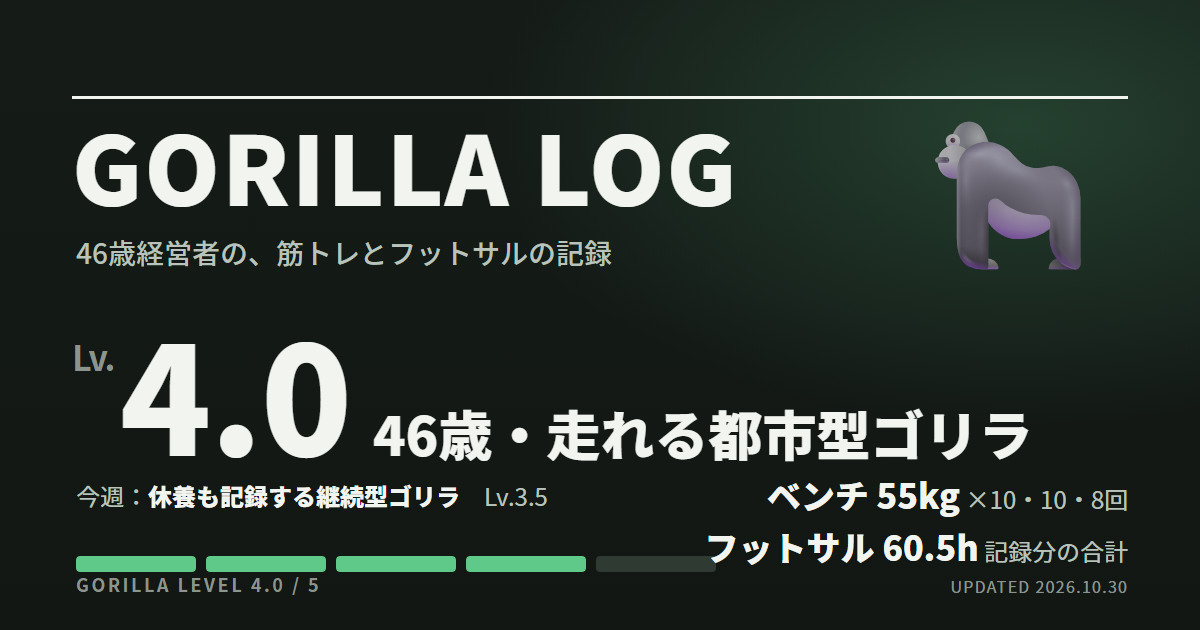
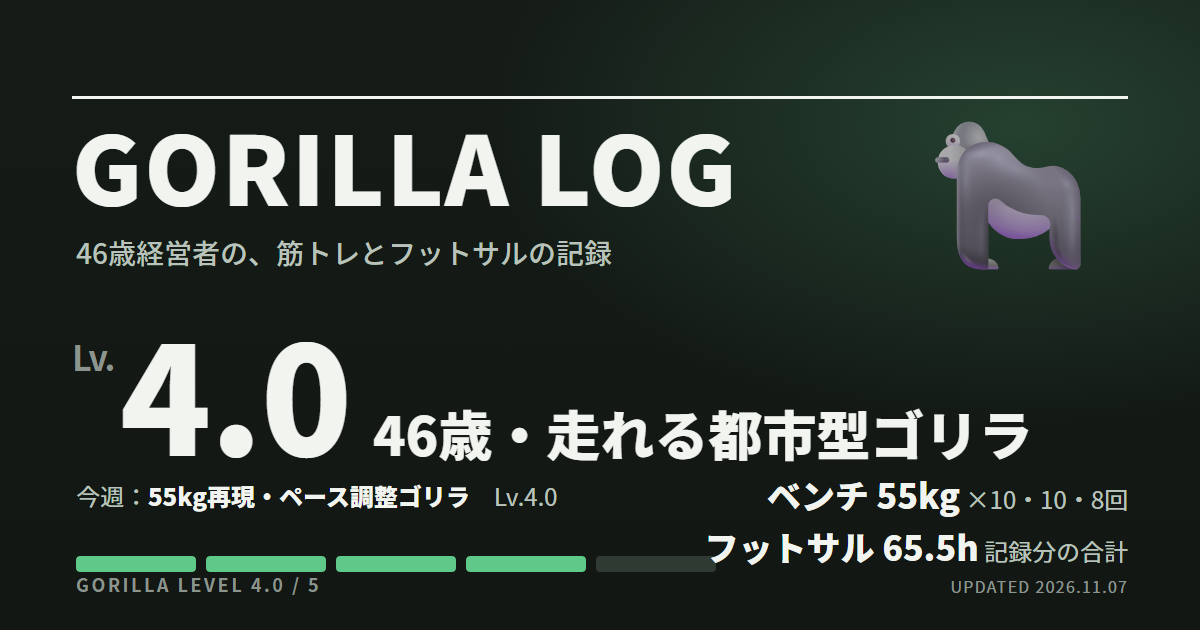
week of 2026-11-07: R66〜R69 を追加
- 11/2 ジム復帰（ベンチ55kg 10・10・8を再現、スクワット60kgで様子見）、11/3 フットサル2h、11/5 自宅16セット、11/7 フットサル3h
- 週判定「55kg再現・ペース調整ゴリラ Lv.4.0」と今週のひと言

Changed region(s): [[0.1233, 0.754, 0.4625, 0.8143], [0.8942, 0.9048, 0.9558, 0.9349], [0.74, 0.8444, 0.7708, 0.9048]]

diff --git a/data/records.js b/data/records.js
@@ -34,7 +34,7 @@ window.GORILLA_DATA = {
   meta: {
     siteName: "GORILLA LOG",
     tagline: "46歳経営者の、筋トレとフットサルの記録",
-    updated: "2026-10-30",
+    updated: "2026-11-07",
     since: "2025-09",
     overallLevel: 4.0,
     overallTitle: "46歳・走れる都市型ゴリラ",
@@ -566,6 +566,38 @@ window.GORILLA_DATA = {
       exercises: ["ダンベルプレス 10kg×15・15・20", "ワンハンドローイング 10kg×30×3", "ブルガリアンスクワット 自重×20×3", "ダンベルフライ 10kg×12・12・20", "フロントレイズ 10kg×10×2", "フレンチプレス 10kg×20×2"],
       source: "画像で確認",
     },
+    {
+      id: "R66", date: "2026-11-02", type: "gym",
+      title: "ベンチ55kg 10・10・8 を再現／スクワット60kg×10×3（様子見）", level: 4.0,
+      nickname: "55kgを再現する復帰ゴリラ",
+      note: "ジムを1回休んだ後の再開。「少し様子見でしたが、あんまりいつもと変わりませんでした」。ベンチは10月22日と同じ55kgで10・10・8回を再現し、反復数の後退は見えない。スクワットは70kgではなく60kgを選択。60kgを選んだことと70kgが挙がらなくなったことは別で、筋力低下とは判断しない。",
+      bench: { w: 55, reps: [10, 10, 8], full: false, verified: true },
+      squat: { w: 60, reps: [10, 10, 10], verified: true },
+      exercises: ["上体起こし 自重×10×3", "ベンチプレス 20×10, 30×5, 55×10・10・8, 37.5×10", "インクラインベンチプレス 30×10, 32.5×10×2", "バーベルスクワット 20×10, 40×5, 60×10×3", "フロントレイズ 8kg×12×3"],
+      source: "画像で確認",
+    },
+    {
+      id: "R67", date: "2026-11-03", type: "futsal",
+      title: "フットサル2時間（ほどほどで、やるところはしっかり）", hours: 2, level: 3.0, provisional: true,
+      nickname: "ほどほどに蹴る2時間ゴリラ",
+      note: "前日のジムに続く球技参加。強度は「ほどほどでやるとこはしっかりくらい」と本人説明。常時全力ではなく、ペースを意識している点を評価。心拍数などの数値には変換しない。",
+      source: "11月7日の本人報告",
+    },
+    {
+      id: "R68", date: "2026-11-05", type: "home",
+      title: "自宅トレ 6種目・16セット（プレス計50回）", level: 3.5, sets: 16,
+      nickname: "定番16セットの自宅ゴリラ",
+      note: "10月29・30日と全6種目の重量・回数・セット数が一致。今回報告の自宅トレは1回で、前週のような連日の同一メニューではない。少なめの実施回数を取り戻すための追加は必要と評価しない。",
+      exercises: ["ダンベルプレス 10kg×15・15・20", "ワンハンドローイング 10kg×30×3", "ブルガリアンスクワット 自重×20×3", "ダンベルフライ 10kg×12・12・20", "フロントレイズ 10kg×10×2", "フレンチプレス 10kg×20×2"],
+      source: "画像で確認",
+    },
+    {
+      id: "R69", date: "2026-11-07", type: "futsal",
+      title: "フットサル3時間", hours: 3, level: 3.5, provisional: true,
+      nickname: "要所はしっかりコートゴリラ",
+      note: "今回報告分で2回目の球技参加。ほどほどの強度を基本に要所はしっかり、という本人説明。以前の「プレー少なめ」はこの日へ流用しない。3時間の連続走行とは読み替えない。",
+      source: "11月7日の本人報告",
+    },
   ],
 
   /* 週単位・期間単位のゴリラ判定（新しいものを末尾に追加）。comment は「今週のひと言」（任意） */
@@ -590,6 +622,8 @@ window.GORILLA_DATA = {
       comment: "46歳のゴリラ、ベンチは55kgへ。脚は70kgを3セット。今回の収穫は、根性を上乗せしたことより、調子を見ながら重量を一段上げたこと。次も、その日の身体と相談していこう。" },
     { range: "10月24〜30日", combo: "自宅2回・32セット＋フットサル2回・計5時間／26日はジム休養", level: 3.5, name: "休養も記録する継続型ゴリラ", note: "運動4日・4セッション。主種目の記録更新ではなく、自宅・球技の継続と体調に応じた予定調整を残す週。休養は減点せず、連日実施も加点しない",
       comment: "ジムを休む日も、運動を続けてきた記録の一部。55kgと70kgの成果を、毎週証明し直す必要はない。46歳・走れる都市型ゴリラにも、休業日はあっていい。" },
+    { range: "11月1〜7日（報告分）", combo: "ジム1回＋自宅1回＋フットサル2回・参加枠計5時間", level: 4.0, name: "55kg再現・ペース調整ゴリラ", note: "運動4日・4セッション。固定週10/31〜11/6は3日・準備除外32セット。休養後の再開でベンチ55kg 10・10・8を再現、スクワットは60kgで様子見。重量更新よりペース配分の週",
+      comment: "1回休んでも、55kgは逃げていなかった。記録を伸ばす週だけでなく、同じ場所へ無理に急がず戻る週にも価値がある。46歳・走れる都市型ゴリラ、今回は重量更新よりペース配分。" },
   ],
 
   /* 記録全体にかかる注記（新しいものを末尾に追加）。全記録の見出しの下に表示される */

diff --git a/DESIGN_AND_OPERATIONS.md b/DESIGN_AND_OPERATIONS.md
@@ -313,6 +313,7 @@ git push
 |---|---|
 | 2026-09-11 | 初版。33項目のアーカイブを構造化し、ダッシュボード・OGP・GA4ローダーを実装。GitHub Pages で公開 |
 | 2026-09-18 | R34〜R37 を追加（37項目）。休養タイプ `rest` を導入し採点外として表示。週判定に「今週のひと言」を追加。OGP画像のフットサル合計を37.5hに更新 |
+| 2026-11-07 | R66〜R69 を追加（69項目）。休養後のジム復帰でベンチ55kg 10・10・8を再現、スクワット60kg。週判定 Lv.4.0。構造変更なし |
 | 2026-10-30 | R62〜R65 を追加（65項目）。10/26 ジム休養（採点外）、フットサル2h、自宅2回。週判定 Lv.3.5。構造変更なし |
 | 2026-10-24 | R57〜R61 を追加（61項目）。ベンチ55kg（10・10・8）、スクワット70kg×10×3。構造変更なし |
 | 2026-10-16 | R53〜R56 を追加（56項目）。ベンチ52.5kg×10×3を2週連続、スクワット65kg復帰。10月14日に46歳：年齢・タグライン・総合称号・OGP説明を更新し、`notices` に誕生日の注記を追加 |
